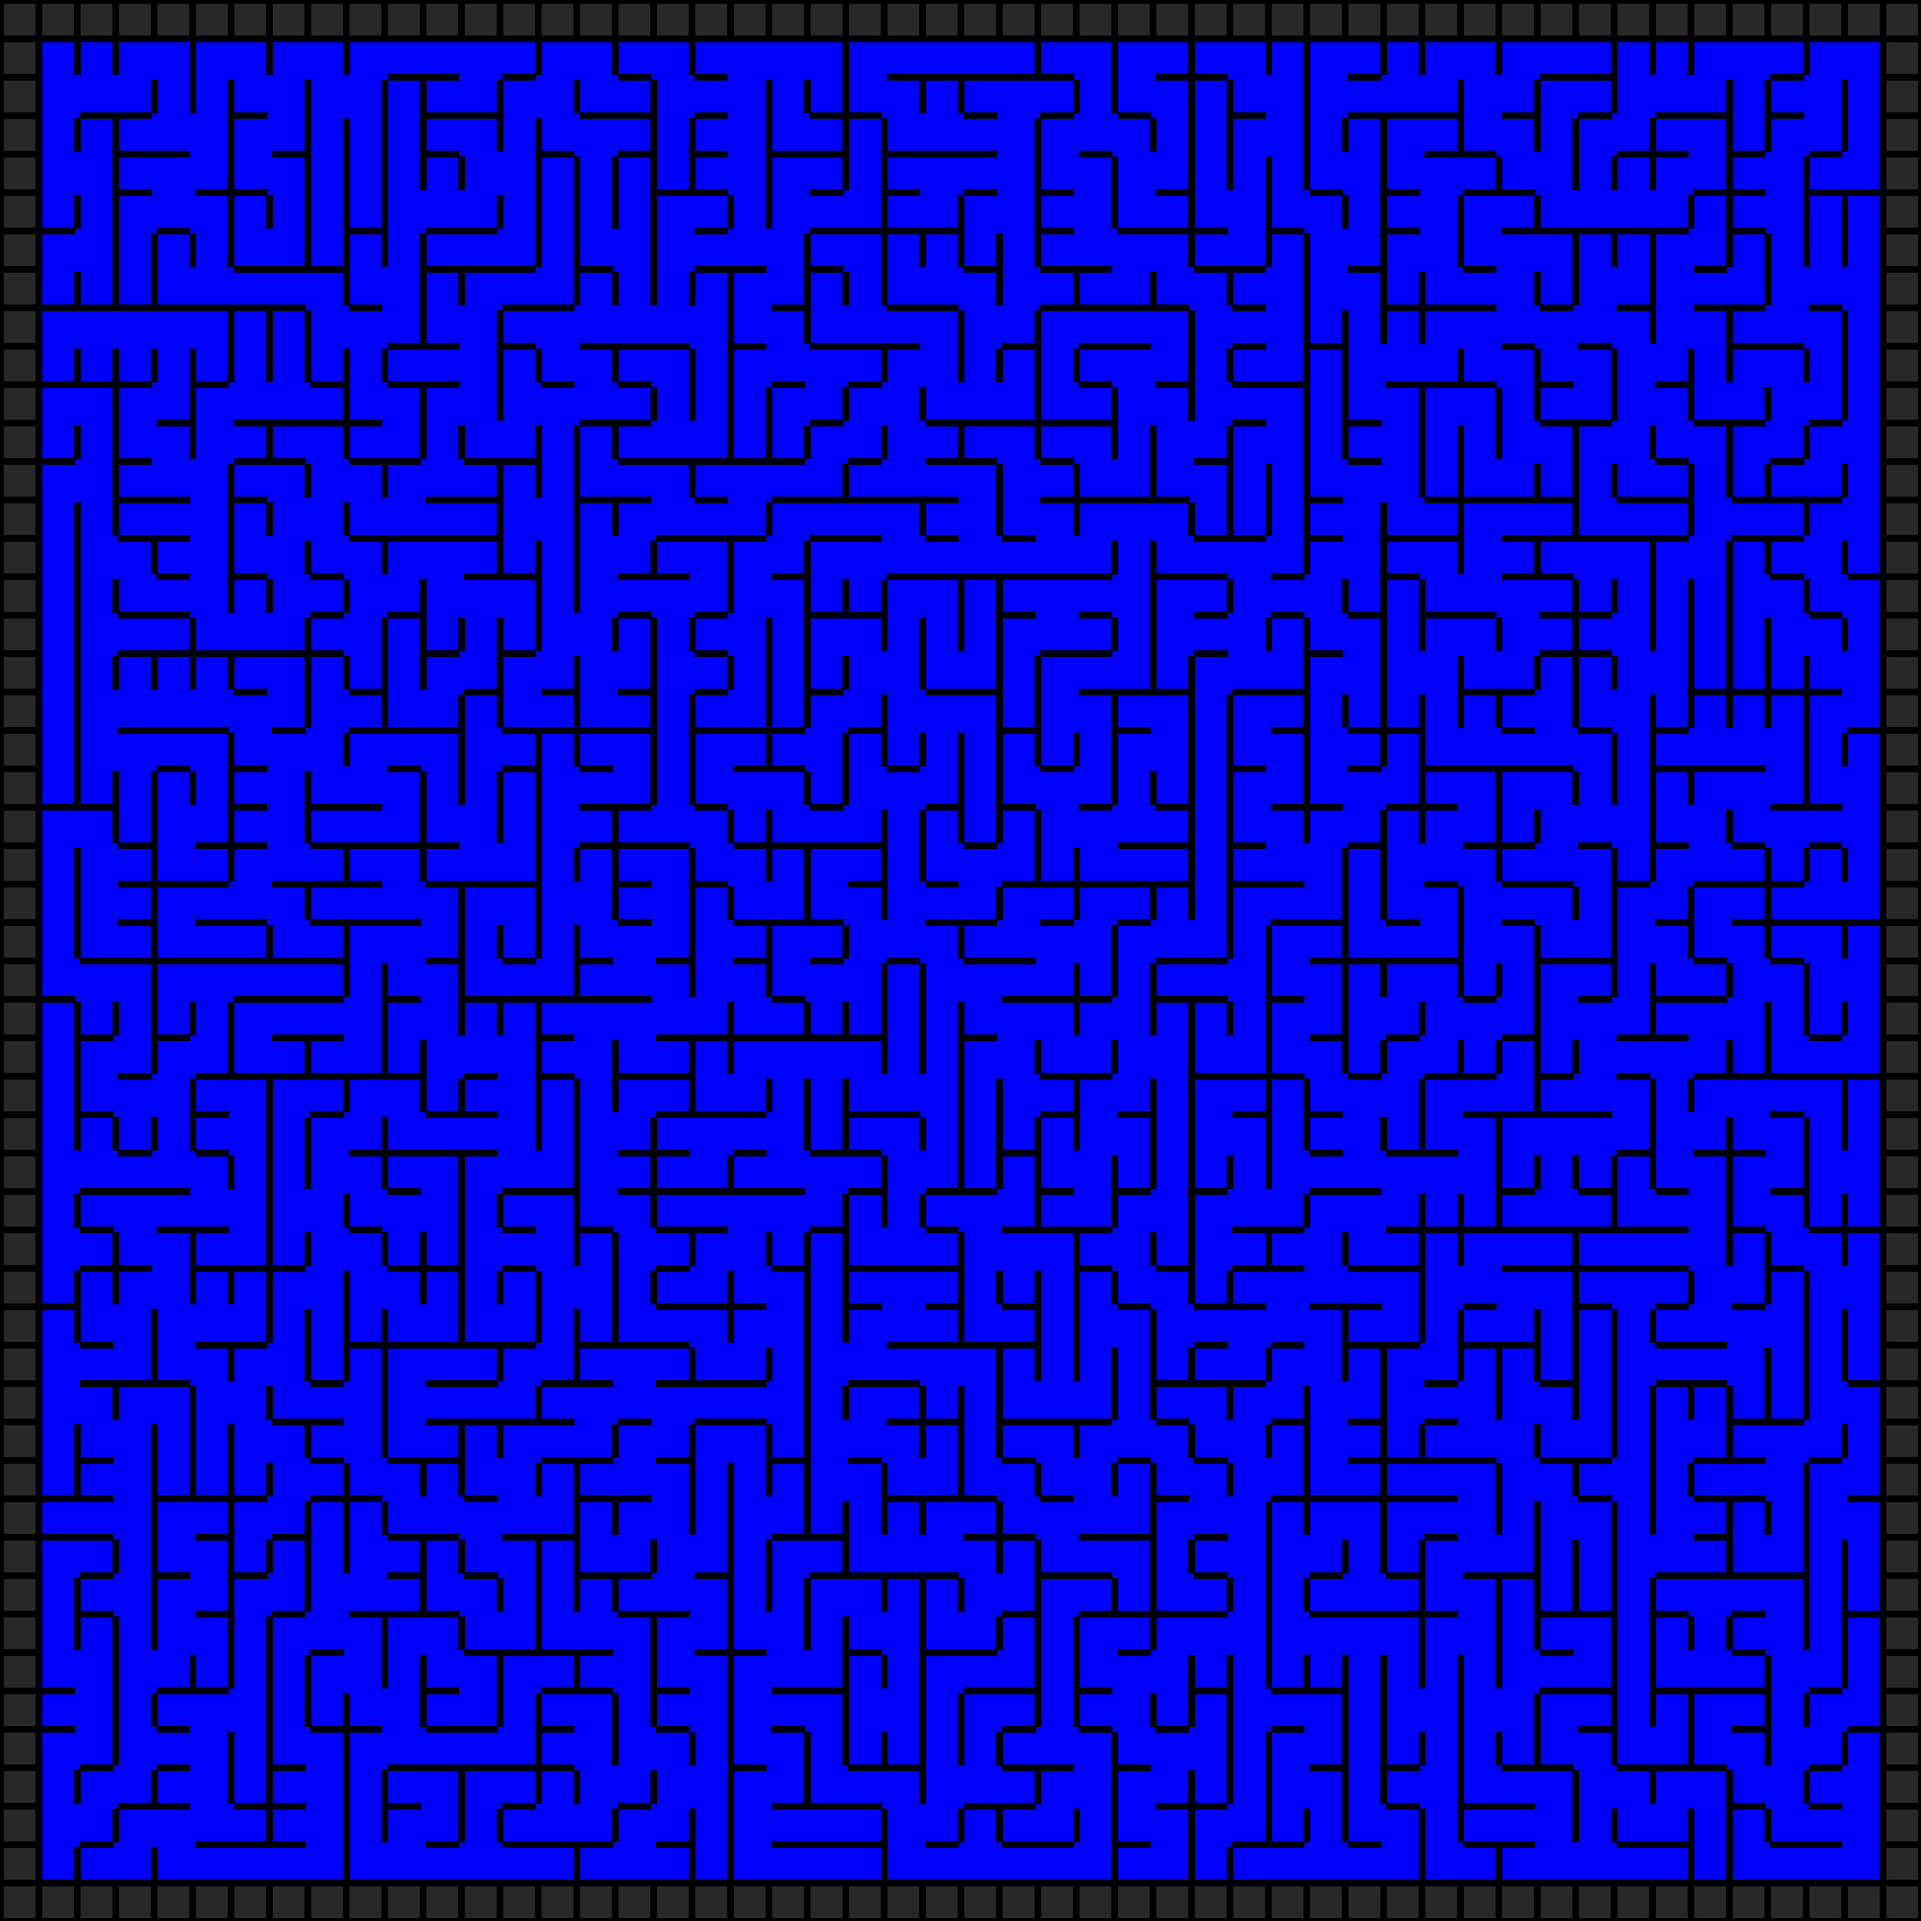
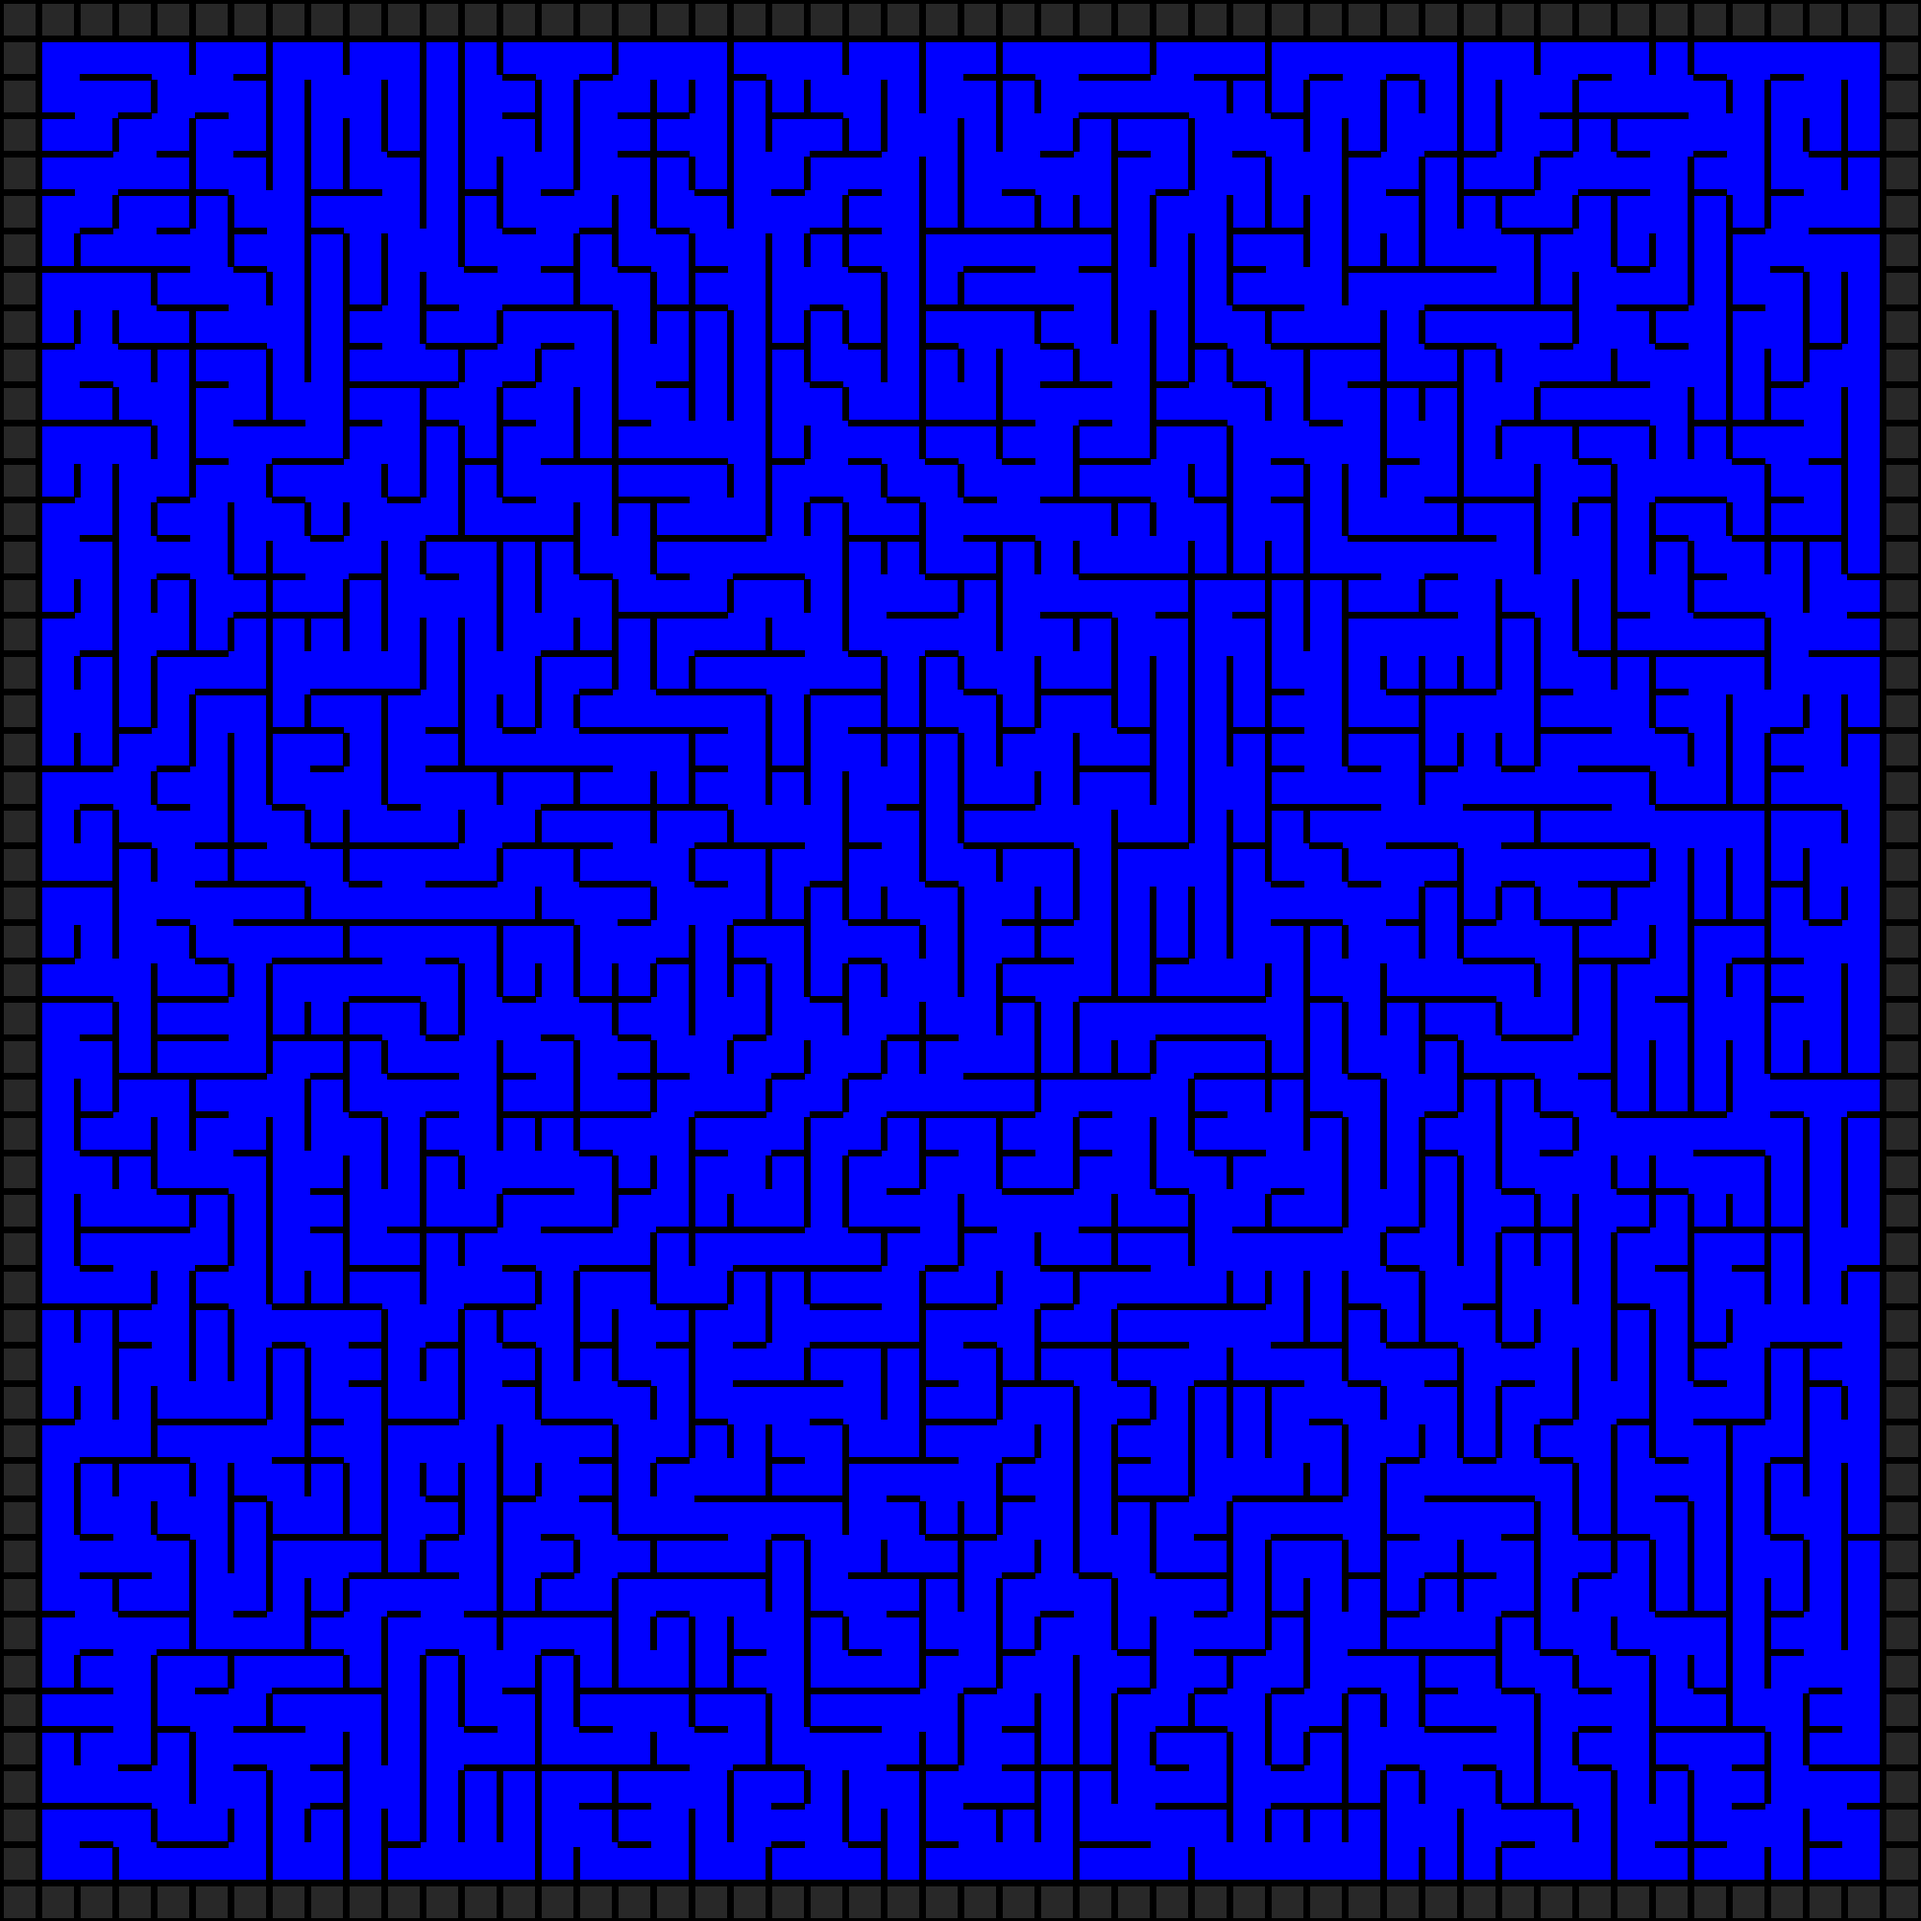
-1 MergeSet Bug fixed. Need to add while loop

Changed region(s): [[0.031, 0.031, 0.992, 0.992], [0.372, 0.961, 0.403, 0.992]]

diff --git a/Kruskals algorithm.py b/Kruskals algorithm.py
@@ -254,11 +254,16 @@ for run in range(4000):
                     UnqiueValSet.pop(choice)
                     MergingSet = Puzzle[rnd_indxX][rnd_indxY][0]
                     print(MergingSet)
+                    temp = []
                     if len(UnqiueValSet) == 0:
                         for width in range(mazeWidth):
                             for length in range(mazeLength):
                                 if Puzzle[width][length][0] > 1:
                                     UnqiueValSet.append([width, length])
+                                    temp.append(Puzzle[width][length][0])
+
+                    if len(set(temp)) == 2:
+                        break
                 except:
                     continue
 
@@ -289,8 +294,8 @@ for run in range(4000):
         #     print('Value needs to be replaced')
 
          # Create a list of the set identifiers for merging
-        if not removeZeros:
-            assignSet = MergingSet
+        # if not removeZeros:
+        #     assignSet = MergingSet
 
         Puzzle[x][y][0] = assignSet
 
